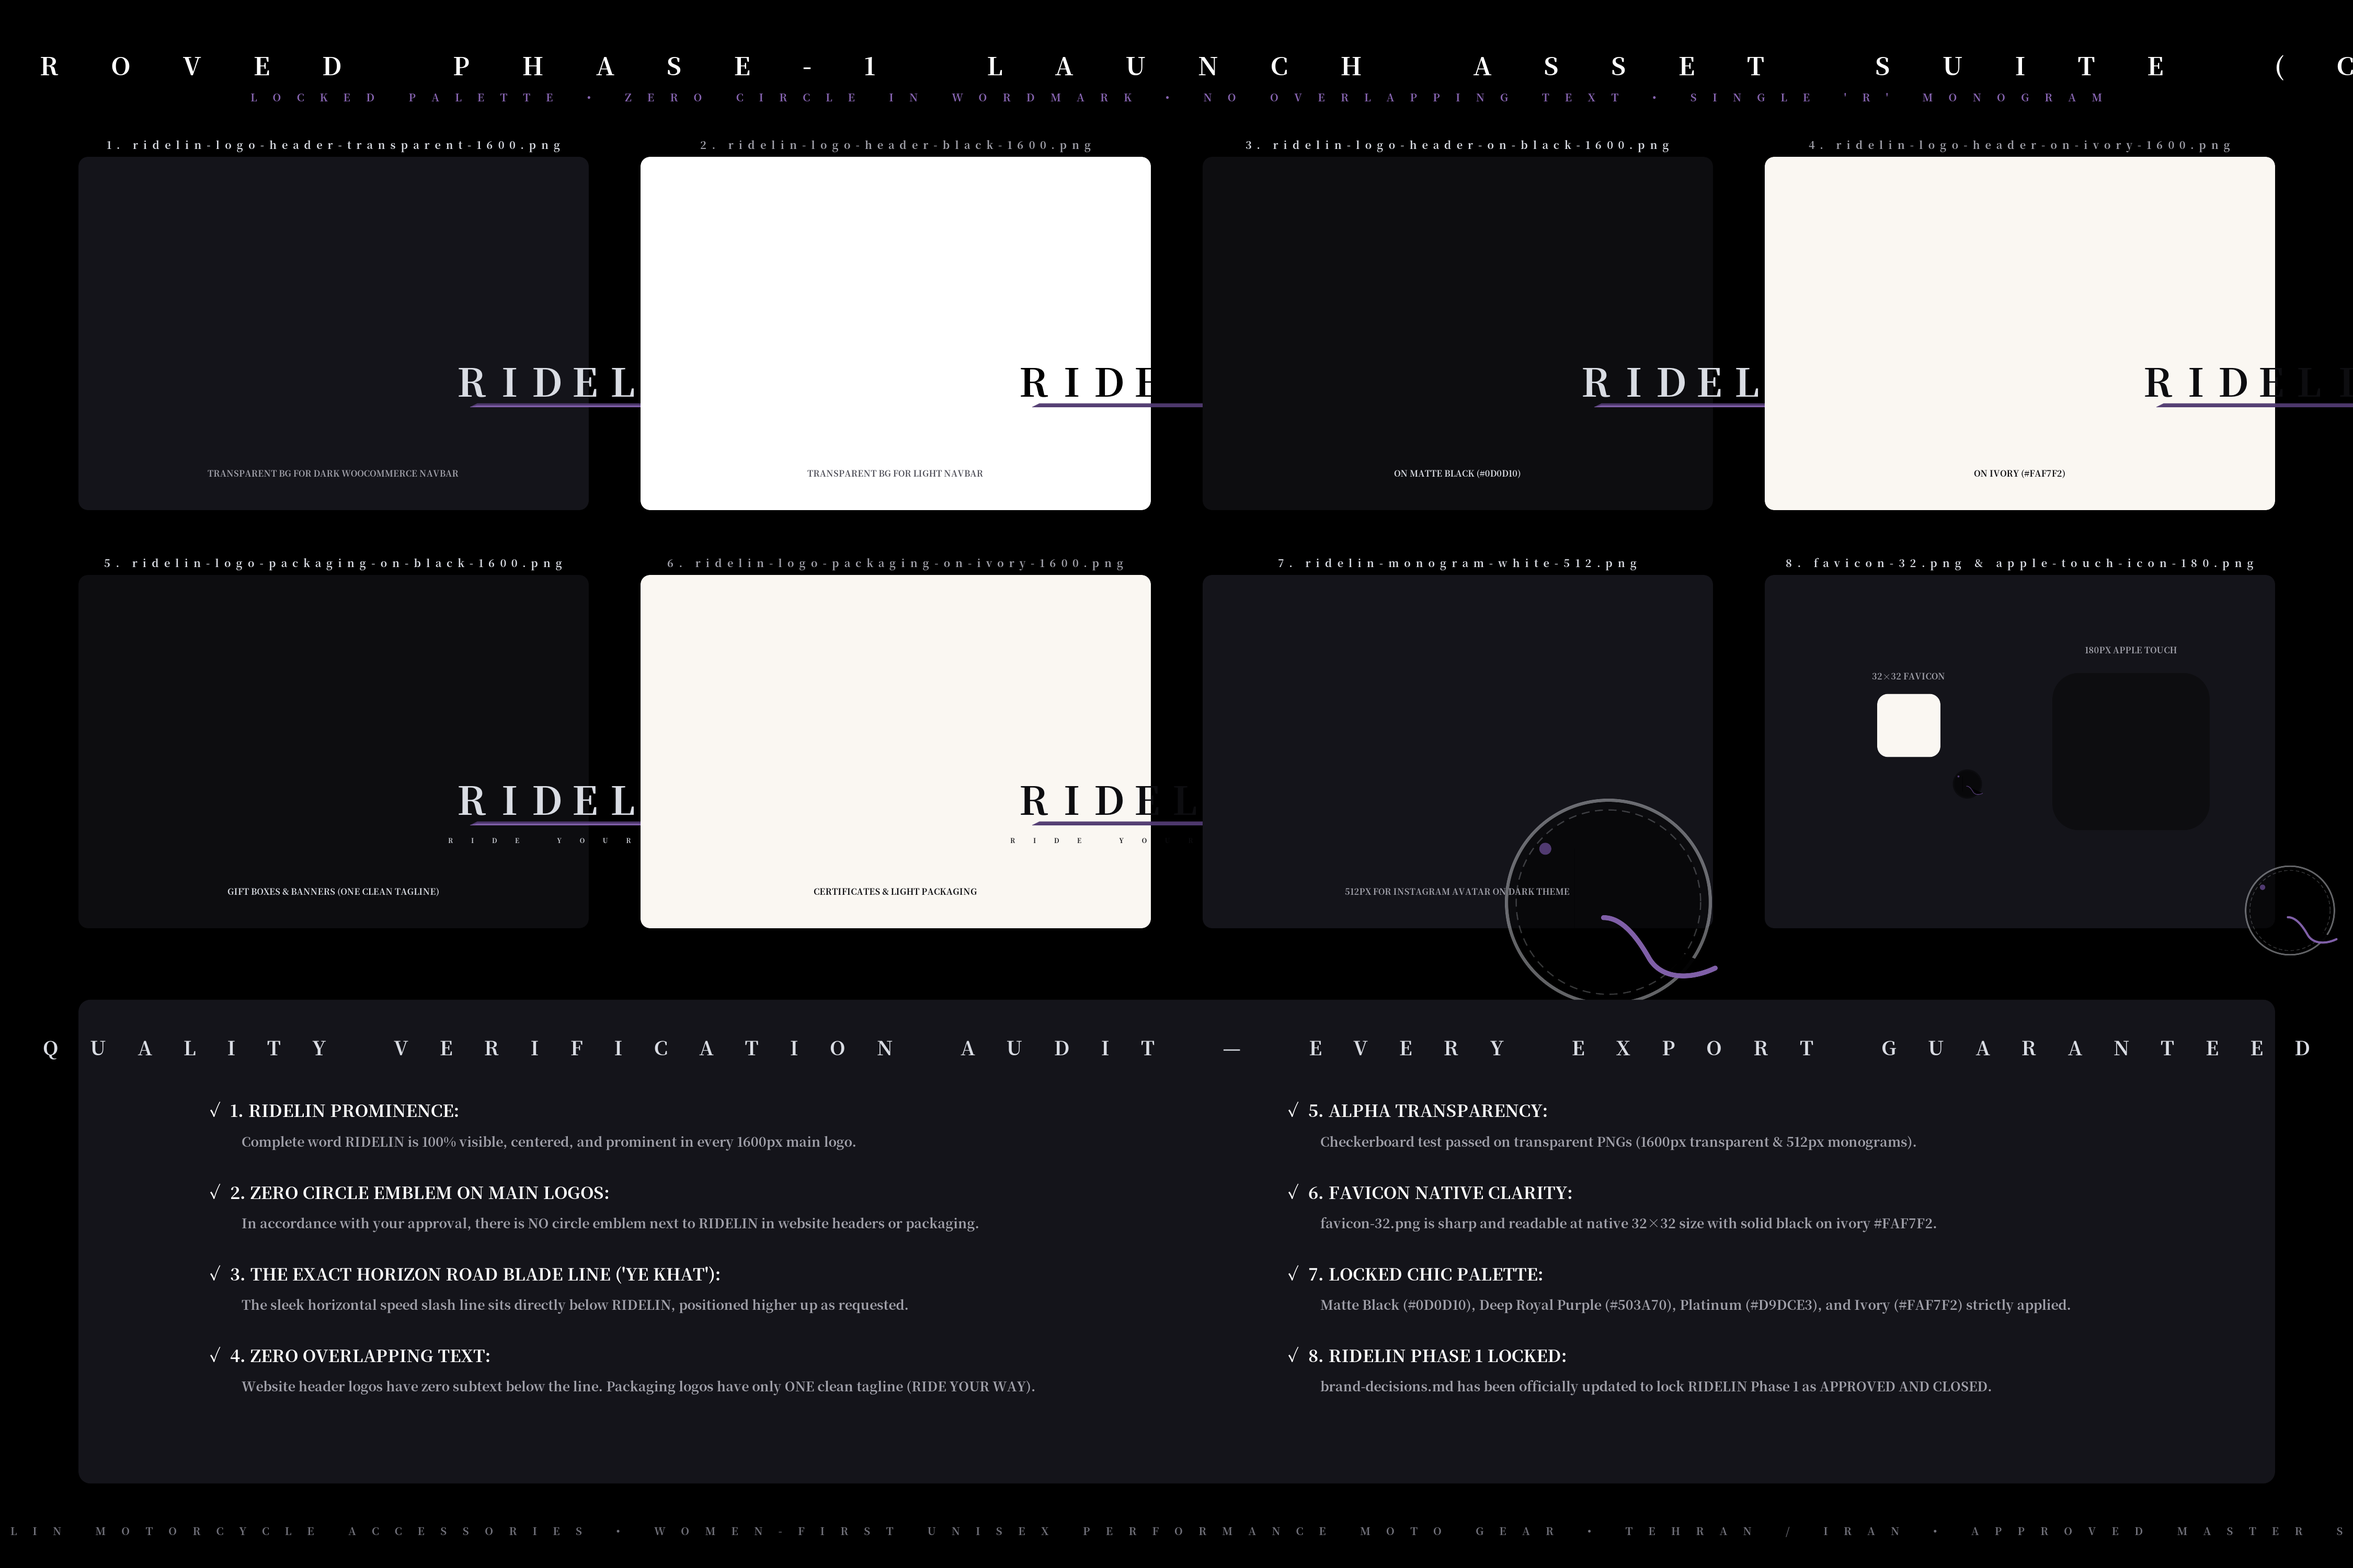
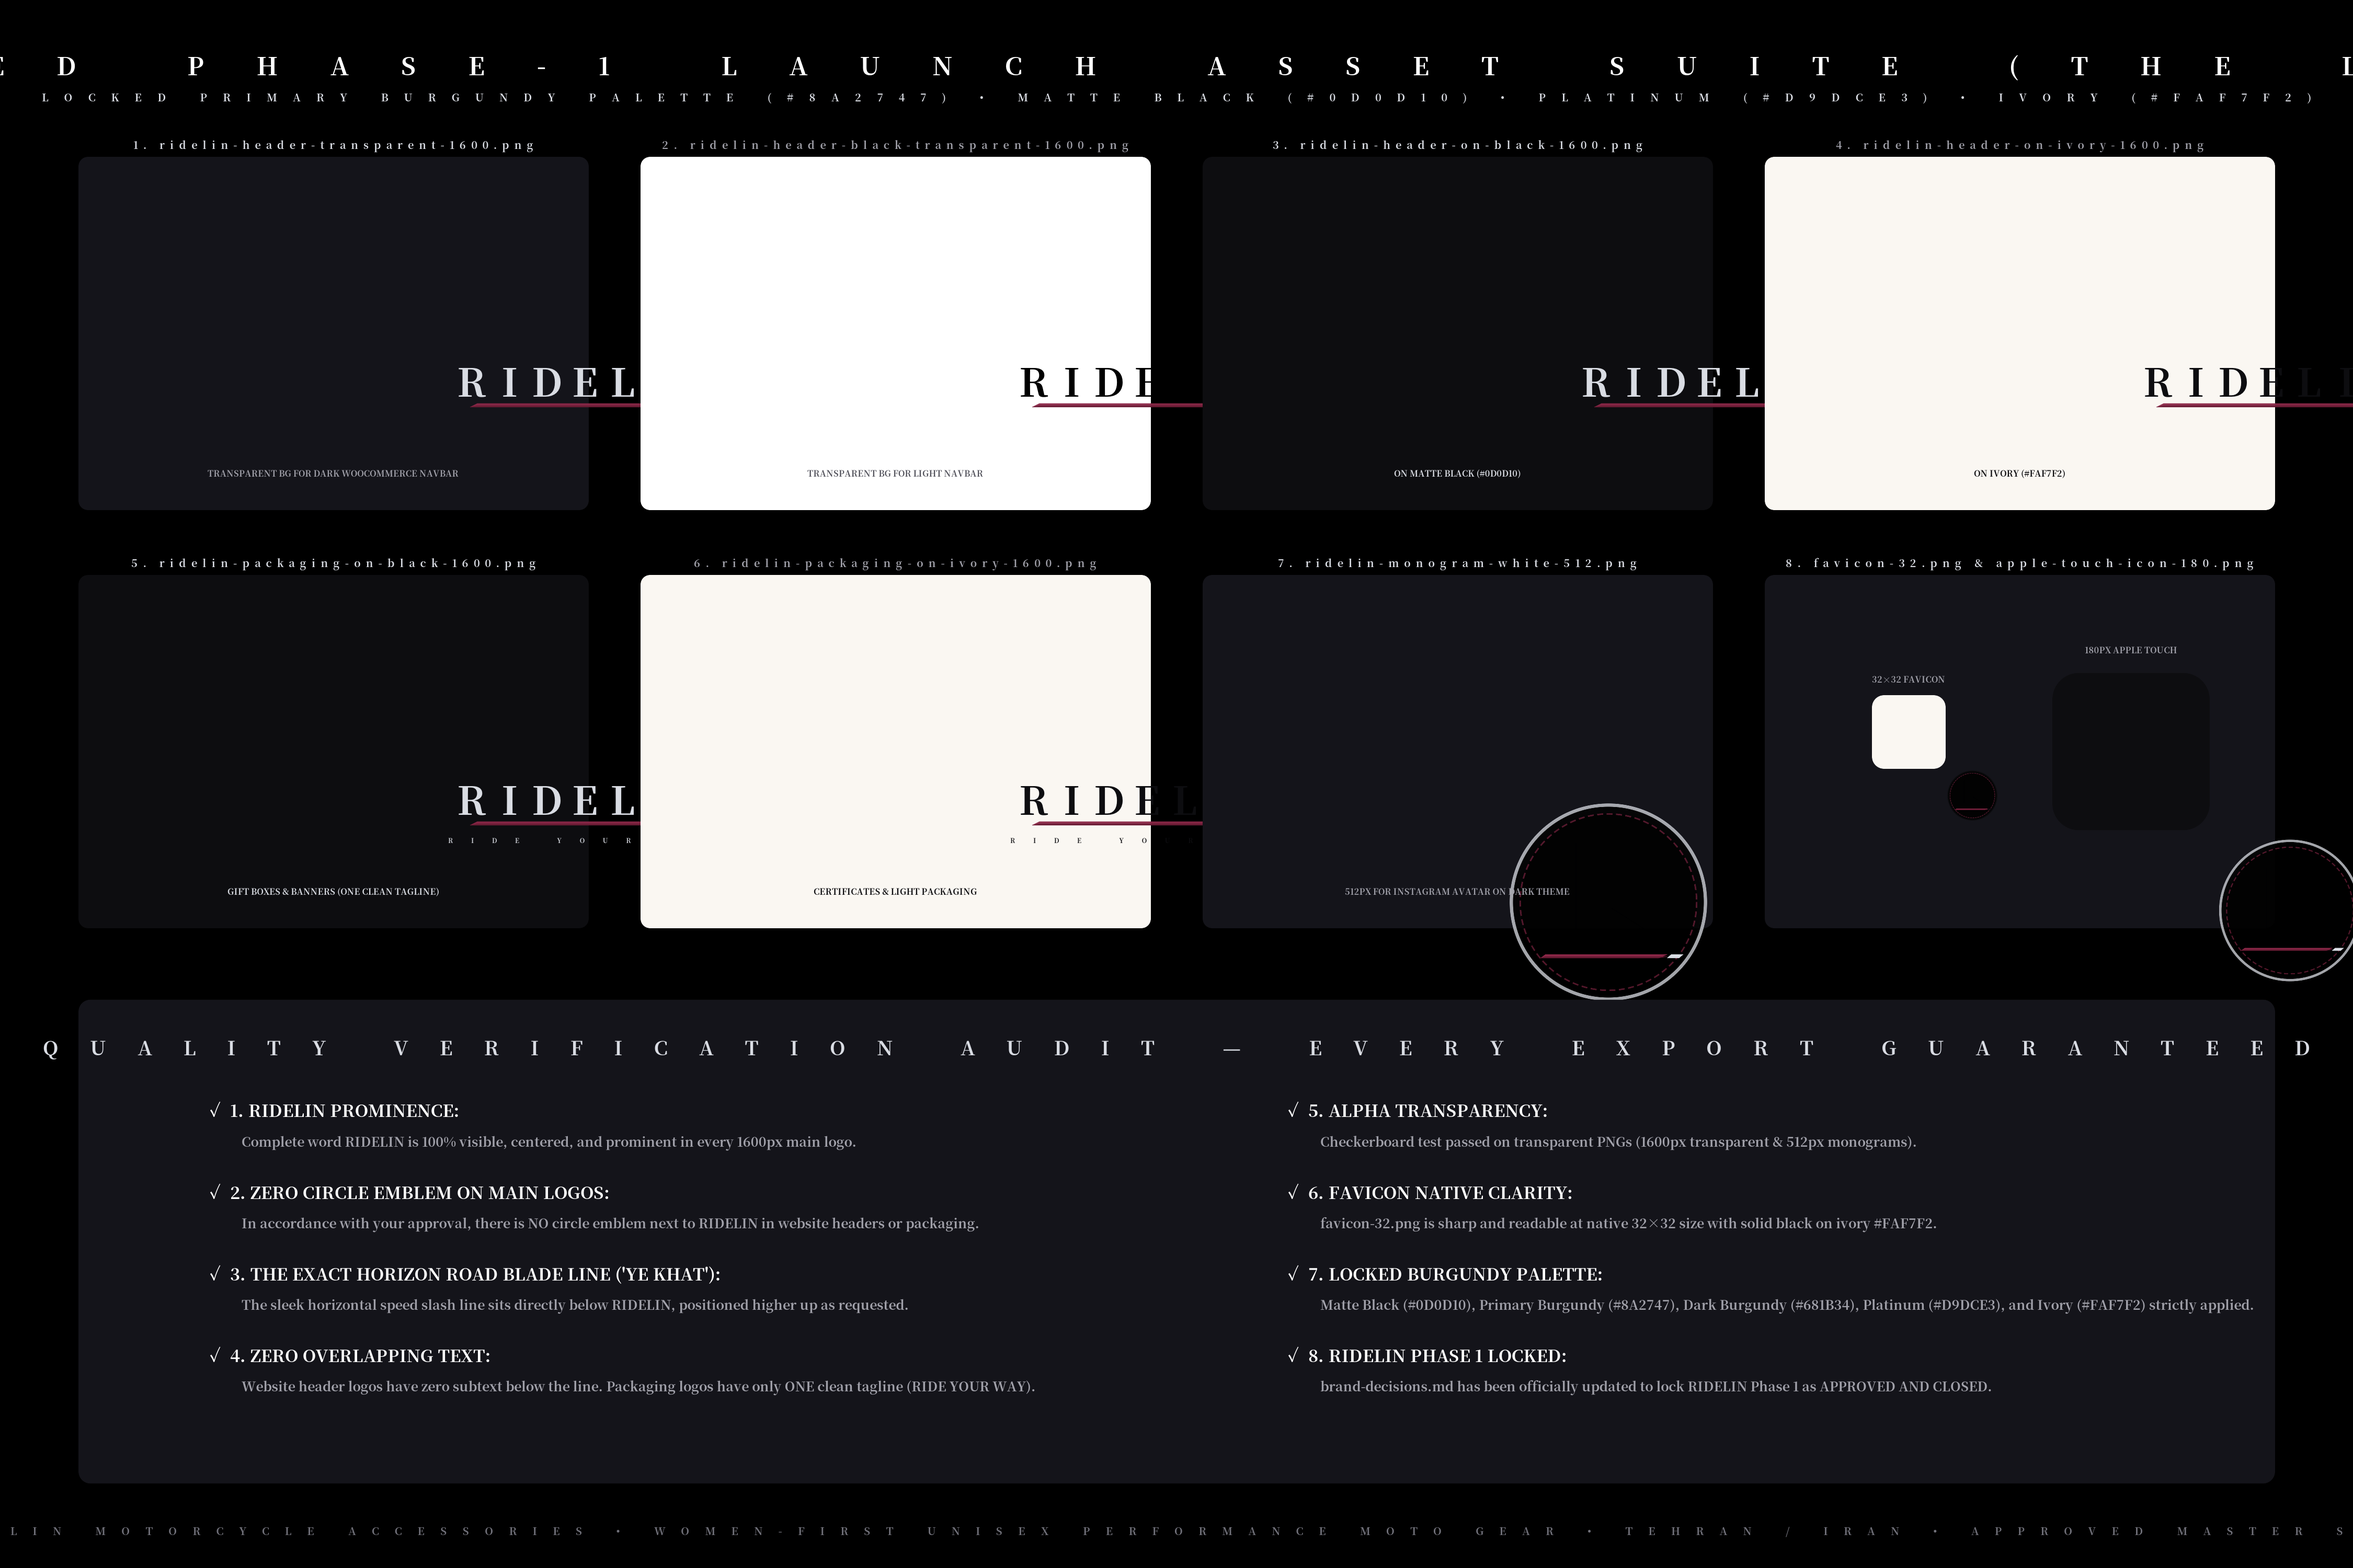
Lock RIDELIN Phase 1 as APPROVED AND CLOSED in brand-decisions.md with Primary Burgundy (#8A2747) palette and upload confirmation sheet

diff --git a/ridelin/APPROVED/usage-guide.md b/ridelin/APPROVED/usage-guide.md
@@ -1,6 +1,6 @@
 # RIDELIN — Motorcycle Accessories Brand Identity Usage Guide (Approved Phase 1)
 
-This directory contains the production-ready **RIDELIN Logo Suite** engineered for women-first unisex motorcycle riders in Iran (Domain: `ridelin.ir`). Every file adheres strictly to the locked palette: Matte Black (`#0D0D10`), Deep Royal Purple (`#503A70`), Platinum (`#D9DCE3`), and Ivory (`#FAF7F2`).
+This directory contains the production-ready **RIDELIN Logo Suite** engineered for women-first unisex motorcycle riders in Iran (Domain: `ridelin.ir`). Every file adheres strictly to the locked Primary Burgundy palette: Matte Black (`#0D0D10`), Primary Burgundy (`#8A2747`), Dark Burgundy (`#681B34`), Platinum (`#D9DCE3`), Ivory (`#FAF7F2`), and Charcoal (`#17171A`).
 
 ---
 
@@ -10,8 +10,8 @@ This directory contains the production-ready **RIDELIN Logo Suite** engineered f
 | :--- | :--- | :--- |
 | **`ridelin-header-*.{svg,png}`** | **Pure Wordmark + Line** (No circle, no subtext) | **Primary Website Header:** WooCommerce desktop navigation bar, mobile sticky header, email newsletter header. |
 | **`ridelin-packaging-*.{svg,png}`** | **Wordmark + Line + Tagline** (`RIDE YOUR WAY`) | **Packaging & Print:** Gift boxes, bags, certificate of authenticity cards, homepage promotional banners. |
-| **`ridelin-monogram-*.{svg,png}`** | **Standalone Single Chic 'R' Monogram** | **Social & Avatars:** Instagram profile picture (`@ridelin.ir`), Telegram/WhatsApp avatar, helmet side-stickers, glove wrist patches. |
-| **`favicon-32.png`** & **`apple-touch-icon-180.png`** | **Native Favicons** | **Browser & iOS:** Standard browser tab icon (`32×32px` on ivory) and Apple iOS home screen bookmark (`180×180px`). |
+| **`ridelin-monogram-*.{svg,png}`** | **Standalone Single Chic English 'R' Monogram** | **Social & Avatars:** Instagram profile picture (`@ridelin.ir`), Telegram/WhatsApp avatar, helmet side-stickers, glove wrist patches. |
+| **`favicon-32.png`** & **`apple-touch-icon-180.png`** | **Native Favicons** | **Browser & iOS:** Standard browser tab icon (`32×32px` on ivory `#FAF7F2`) and Apple iOS home screen bookmark (`180×180px`). |
 
 ---
 

diff --git a/brand-decisions.md b/brand-decisions.md
@@ -17,13 +17,13 @@
 - Brand name: FINALIZED  
 - Domain: ridelin.ir  
 - Logo: **APPROVED AND CLOSED (Phase 1)**  
-- Date of approval: 2026-08-03  
+- Date of approval: 2026-08-04  
 - Approved Final Files (`brand-assets/ridelin/APPROVED/`):  
-  - Website Header (Pure Wordmark + Line, zero circle, zero subtext): `ridelin-header-transparent-1600.png`, `ridelin-header-black-transparent-1600.png`, `ridelin-header-on-black-1600.png`, `ridelin-header-on-ivory-1600.png`, and SVGs  
+  - Website Header (Pure Wordmark + Line, zero circle, zero subtext, Primary Burgundy #8A2747): `ridelin-header-transparent-1600.png`, `ridelin-header-black-transparent-1600.png`, `ridelin-header-on-black-1600.png`, `ridelin-header-on-ivory-1600.png`, and SVGs  
   - Packaging & Print (Wordmark + Line + single tagline 'RIDE YOUR WAY'): `ridelin-packaging-on-black-1600.png`, `ridelin-packaging-on-ivory-1600.png`, and SVGs  
-  - Primary Icon / Social Avatar (Single Chic 'R' Monogram): `ridelin-monogram-white-512.png`, `ridelin-monogram-black-512.png`, `ridelin-monogram-white.svg`, `ridelin-monogram-black.svg`  
+  - Primary Icon / Social Avatar (Single Chic English 'R' Monogram): `ridelin-monogram-white-512.png`, `ridelin-monogram-black-512.png`, `ridelin-monogram-white.svg`, `ridelin-monogram-black.svg`  
   - Favicons & iOS App Icons: `favicon-32.png`, `favicon-32.svg`, `apple-touch-icon-180.png`, `apple-touch-icon-180.svg`  
-  - Master Confirmation Sheet: `ridelin-latest-approved-confirmation.png`, `ridelin-latest-approved-confirmation.svg`  
+  - Master Confirmation Sheet: `ridelin-APPROVED-confirmation.png`, `ridelin-APPROVED-confirmation.svg`  
   - Documentation: `usage-guide.md`  
   
 ## Status  
